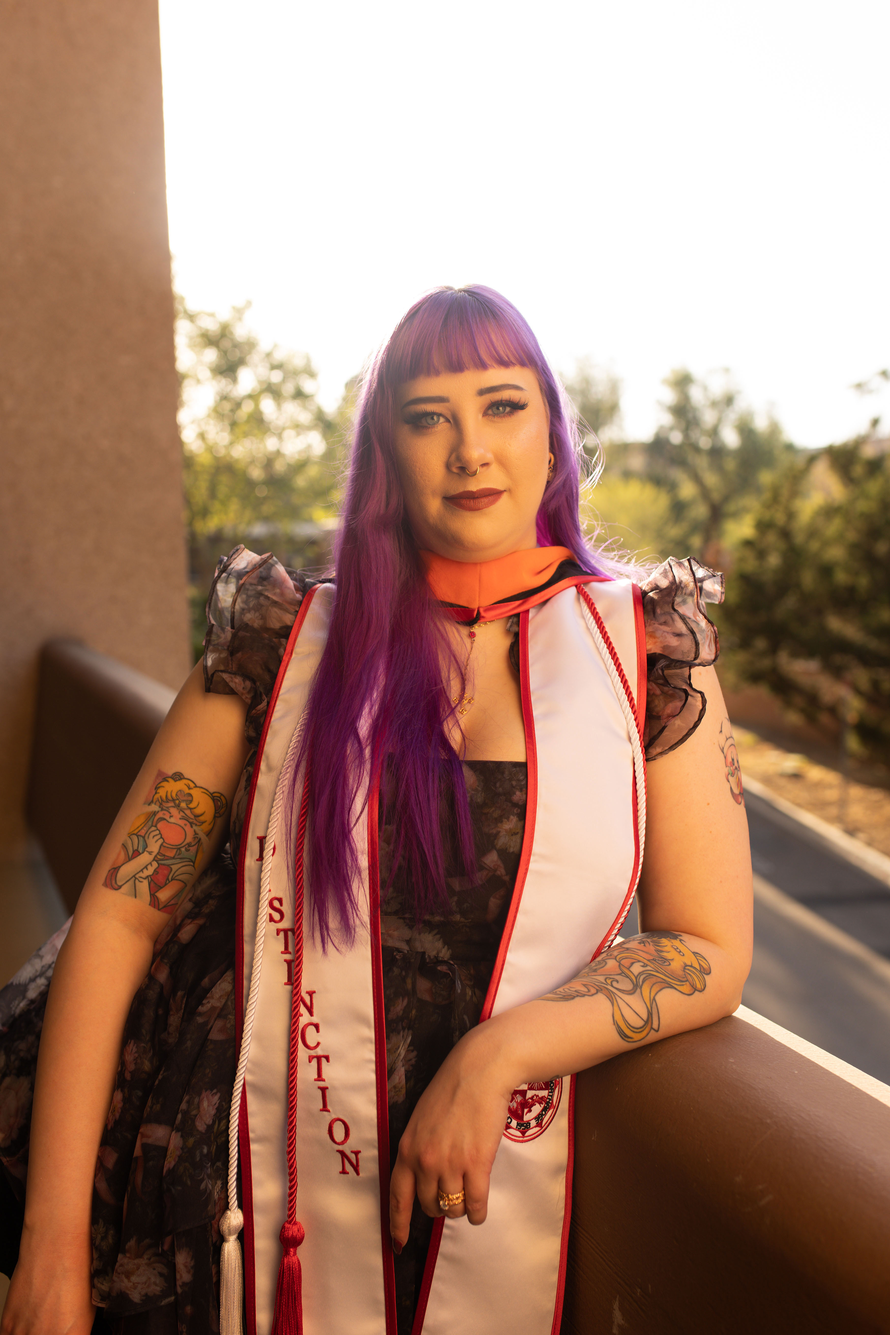
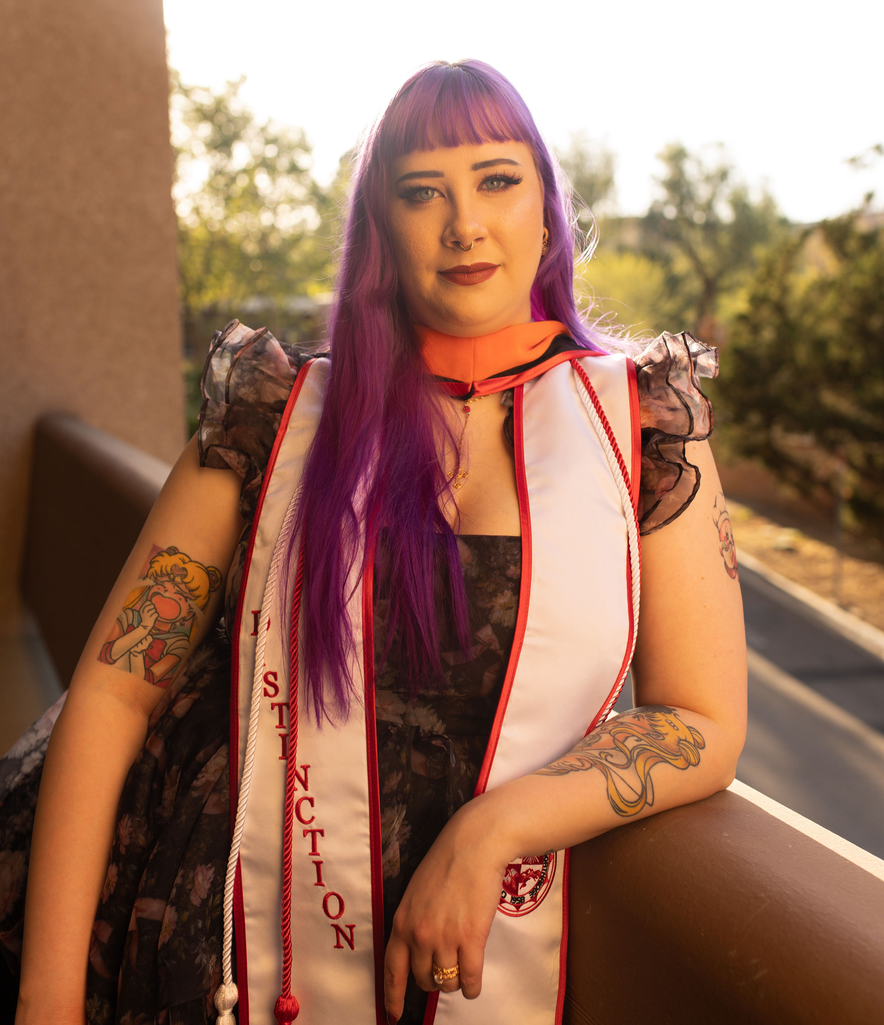
resizing pic

diff --git a/index.html b/index.html
@@ -7,7 +7,7 @@
     </head>
     <body>
         <h1>Sarah Canto Hyatt</h1>
-        <img src = "image.jpg" width="10%" height="10%"/>
+        <img src = "image.jpg" width="12%" height="12%"/>
         <p>I am currently a PhD Student at University of California, Santa Barbara(<a href="https://www.ucsb.edu/">UCSB</a>).<br>
           I am a member of the UCSB Programming Languages Lab with <a href="https://hardekbc.github.io/">Ben Hardekopf</a></p>
         <h2>Research</h2>
